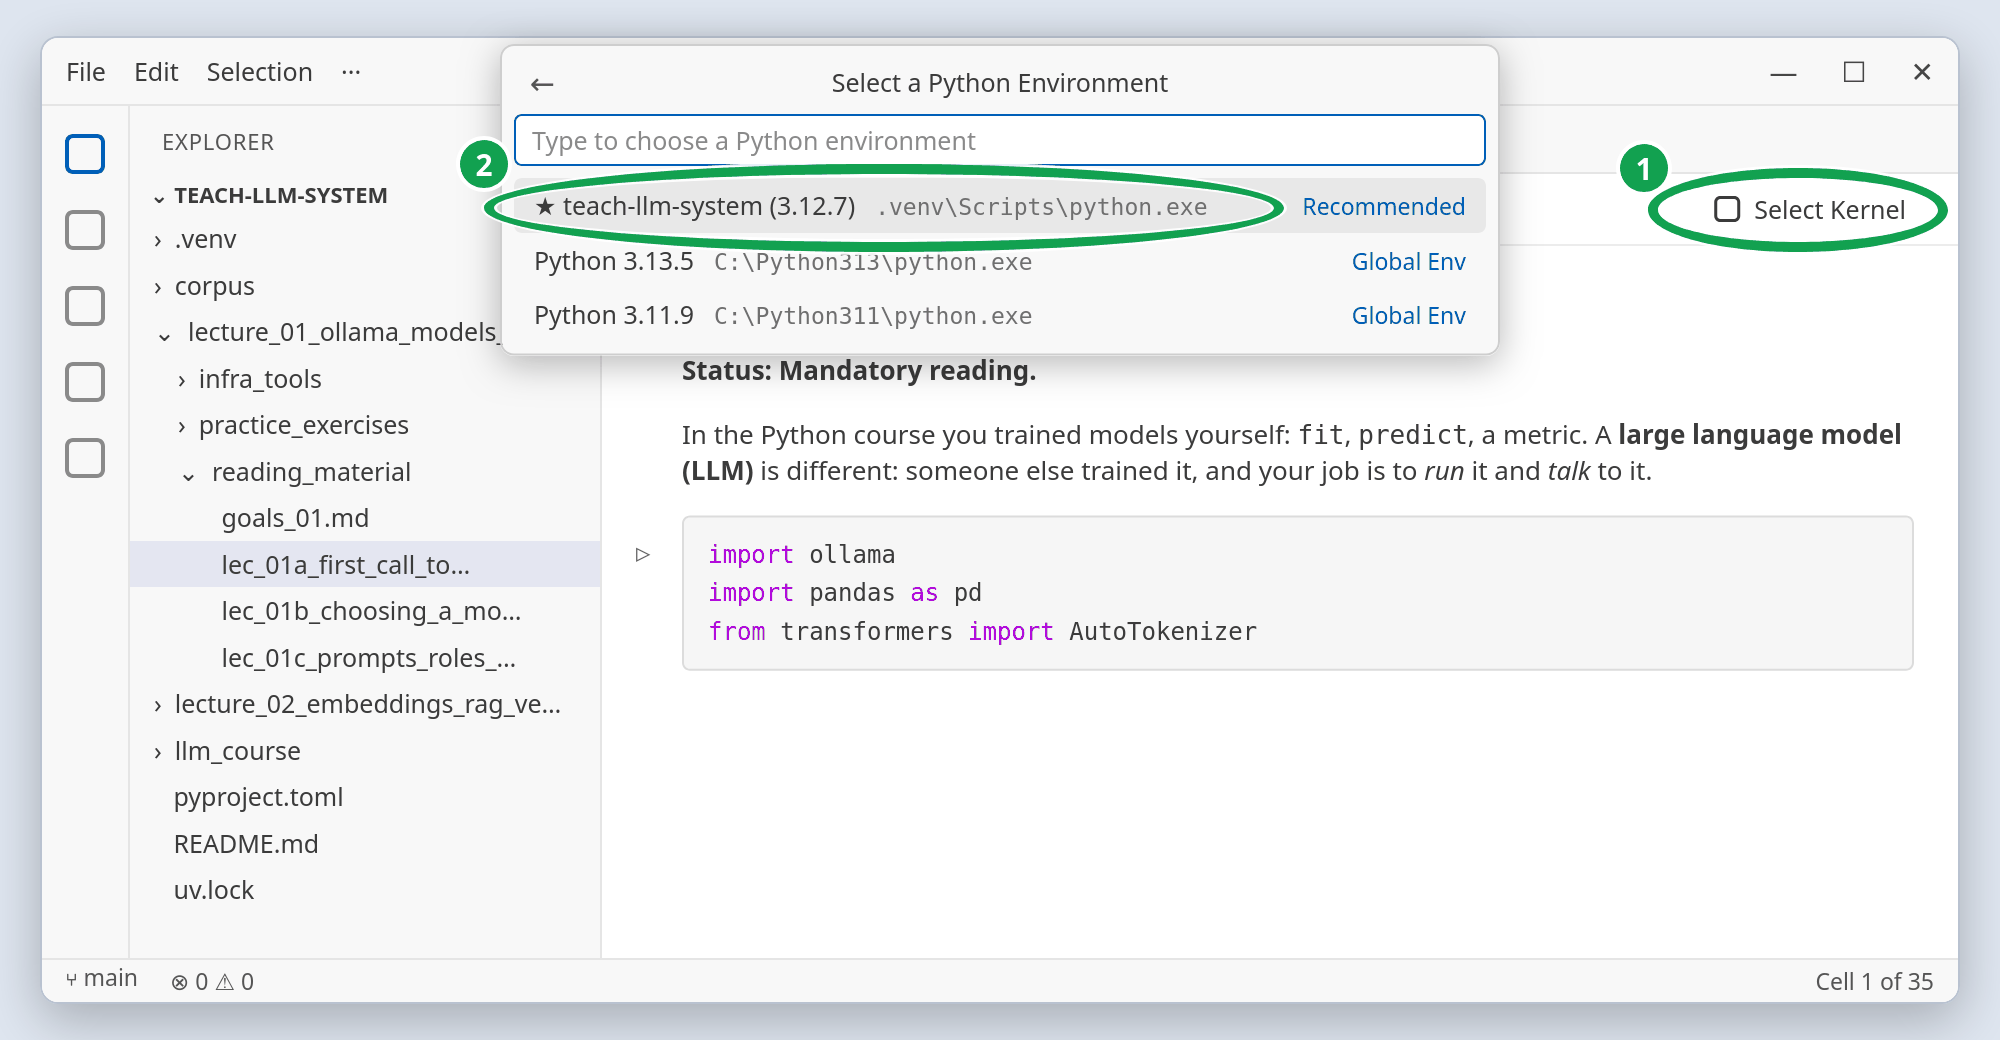
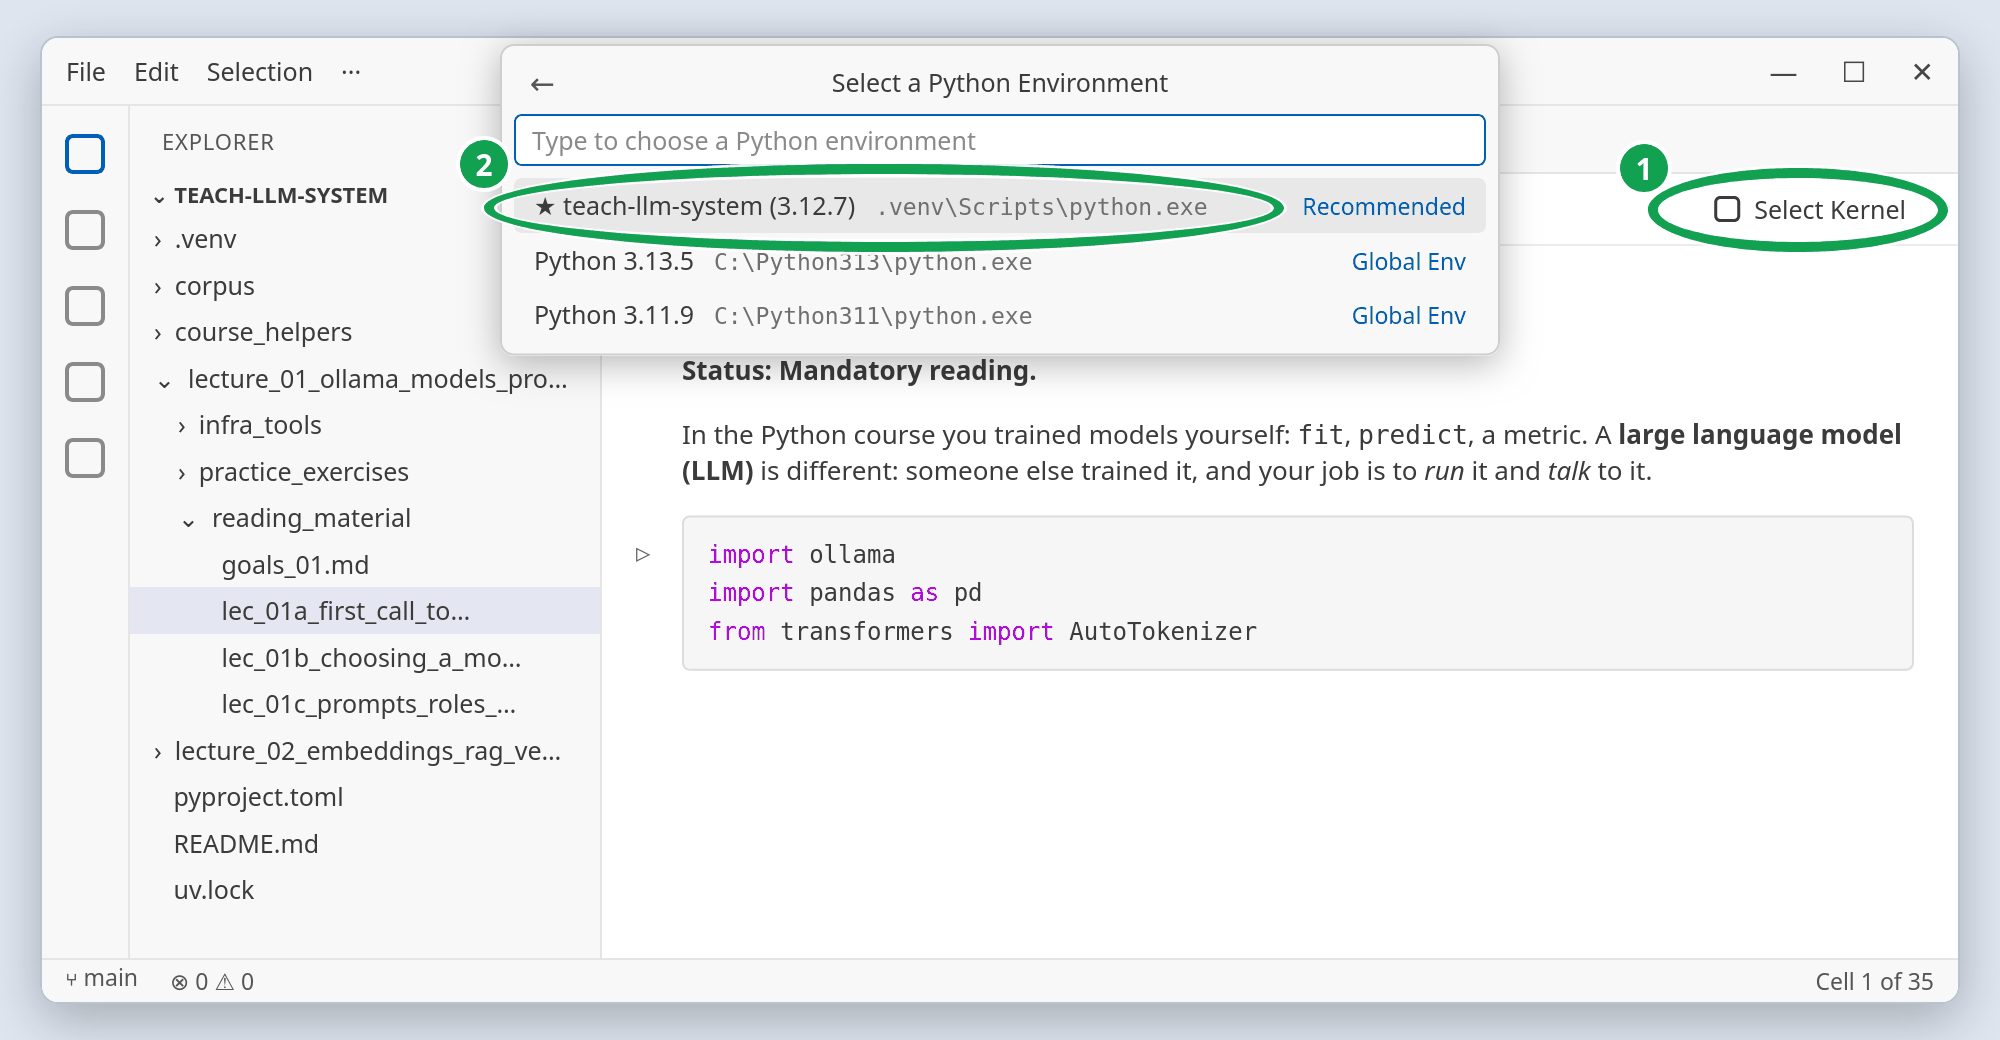
refactor(course_helpers): rename the llm_course package to course_helpers
The helpers are the course's own functions, first written live in a
notebook and then promoted; the new name says so. A generic name such as
utils was rejected: a student's own utils.py next to a notebook would
shadow it, because Python searches the notebook's folder first.

- Rename the package folder and every import, reference and comment in
  notebooks, tools, guides, CLAUDE.md, CI and the pre-commit config
- List the evaluation and agents modules in the package docstring
- Redraw the three VS Code illustrations whose Explorer tree shows the
  folder, in its alphabetical place
- Session transcripts in ai_collaboration_log/sessions keep the old name:
  they record what happened at the time

Changed region(s): [[0.093, 0.5846, 0.279, 0.7385], [0.093, 0.3077, 0.248, 0.4615], [0.093, 0.4923, 0.217, 0.5538]]

diff --git a/tools/mlflow_server.py b/tools/mlflow_server.py
@@ -4,8 +4,8 @@
     cd mlflow_server
     uv run python ../tools/mlflow_server.py --host 127.0.0.1 --port 5010   # same flags as `mlflow server`
 
-This is `mlflow server` with one change: uvicorn loads `llm_course.mlflow_app:app`, which
-registers the Copilot provider (see llm_course/mlflow_copilot_provider.py) before
+This is `mlflow server` with one change: uvicorn loads `course_helpers.mlflow_app:app`, which
+registers the Copilot provider (see course_helpers/mlflow_copilot_provider.py) before
 creating MLflow's FastAPI application. The Assistant panel then lists "GitHub Copilot CLI"
 next to Claude Code, Codex CLI and Ollama, and uses it when it is the selected provider in
 `~/.mlflow/assistant/config.json` (see tools/install_copilot_provider.py).
@@ -18,7 +18,7 @@ import sys
 
 import mlflow.server as mlflow_server
 
-COURSE_APP = "llm_course.mlflow_app:app"
+COURSE_APP = "course_helpers.mlflow_app:app"
 
 _original_build_uvicorn_command = mlflow_server._build_uvicorn_command
 

diff --git a/course_helpers/agents.py b/course_helpers/agents.py
@@ -22,7 +22,7 @@ from langchain_core.tools import BaseTool, tool
 from mlflow.entities import SpanType, Trace
 from mlflow.genai.scorers import scorer
 
-from llm_course.rag import DEFAULT_RAG_PROMPT, format_context
+from course_helpers.rag import DEFAULT_RAG_PROMPT, format_context
 
 # The Python course has lectures 1 to 13 (corpus/uoa_py_course/lecture_01 ... _13).
 FIRST_LECTURE, LAST_LECTURE = 1, 13
@@ -49,7 +49,7 @@ def make_course_tools(
 ) -> list[BaseTool]:
     """Return the course's tools: ``count_mentions``, ``list_notebooks``, ``search_notes``.
 
-    ``documents`` are the notes from ``llm_course.corpus.load_corpus``; ``retriever``
+    ``documents`` are the notes from ``course_helpers.corpus.load_corpus``; ``retriever``
     (for example ``store.as_retriever(...)``, lec_02d) adds ``search_notes``. Every tool
     only reads the notes: no files written, no network, no shell (lec_03c section 7).
     """

diff --git a/tools/export_corpus.py b/tools/export_corpus.py
@@ -6,7 +6,7 @@
     uv run python tools/export_corpus.py --check                        # verify corpus matches manifest
 
 Standard library only, so it also runs before `uv sync`. Notebook cells become
-Markdown (see llm_course.corpus.notebook_to_markdown); .py and .txt files are fenced.
+Markdown (see course_helpers.corpus.notebook_to_markdown); .py and .txt files are fenced.
 """
 
 import argparse
@@ -21,7 +21,7 @@ from pathlib import Path
 
 REPO = Path(__file__).resolve().parents[1]
 sys.path.insert(0, str(REPO))
-from llm_course.corpus import notebook_to_markdown  # noqa: E402
+from course_helpers.corpus import notebook_to_markdown  # noqa: E402
 
 SOURCE_REPO = "https://github.com/argythana/uoa_py_course"
 OUT_DIR = REPO / "corpus" / "uoa_py_course"

diff --git a/tools/guide_illustrations/vscode_kernel.py b/tools/guide_illustrations/vscode_kernel.py
@@ -90,6 +90,7 @@ SIDE = "".join(
     (
         tree(0, "›&nbsp; .venv"),
         tree(0, "›&nbsp; corpus"),
+        tree(0, "›&nbsp; course_helpers"),
         tree(0, "⌄&nbsp; lecture_01_ollama_models_pro…"),
         tree(1, "›&nbsp; infra_tools"),
         tree(1, "›&nbsp; practice_exercises"),
@@ -99,7 +100,6 @@ SIDE = "".join(
         tree(2, "&nbsp;&nbsp; lec_01b_choosing_a_mo…"),
         tree(2, "&nbsp;&nbsp; lec_01c_prompts_roles_…"),
         tree(0, "›&nbsp; lecture_02_embeddings_rag_ve…"),
-        tree(0, "›&nbsp; llm_course"),
         tree(0, "&nbsp;&nbsp; pyproject.toml"),
         tree(0, "&nbsp;&nbsp; README.md"),
         tree(0, "&nbsp;&nbsp; uv.lock"),

diff --git a/course_helpers/__init__.py b/course_helpers/__init__.py
@@ -1,0 +1,11 @@
+"""Helper functions for the teach-llm-system course.
+
+Every function here was first written live in a notebook and then "promoted" into
+this package so later notebooks can rebuild their inputs in one cell:
+
+- ``course_helpers.checks`` : is Ollama up, are the models pulled, is MLflow reachable?
+- ``course_helpers.corpus`` : load the course notes (and optional Wikipedia pages).
+- ``course_helpers.rag``    : split, index (Chroma), and build the RAG chain.
+- ``course_helpers.evaluation`` : evaluation records, scorers, the LLM judge, comparisons.
+- ``course_helpers.agents``     : the course's tools and the agentic RAG graph.
+"""

diff --git a/tools/guide_illustrations/hf_token.py b/tools/guide_illustrations/hf_token.py
@@ -210,9 +210,9 @@ def tree(indent: int, text: str, on: bool = False) -> str:
 VS_SIDE = "".join(
     (
         tree(0, "›&nbsp; .venv"),
+        tree(0, "›&nbsp; course_helpers"),
         tree(0, "›&nbsp; lecture_01_ollama_models_pro…"),
         tree(0, "›&nbsp; lecture_02_embeddings_rag_ve…"),
-        tree(0, "›&nbsp; llm_course"),
         f'<div class="tree on" style="padding:6px 0 6px 36px;margin:12px 0">{circled(".env", "1", "padding-right:60px", "right")}</div>',
         tree(0, "&nbsp;&nbsp;&nbsp; .env.example"),
         tree(0, "&nbsp;&nbsp;&nbsp; .gitignore"),

diff --git a/tools/guide_illustrations/vscode_terminal.py b/tools/guide_illustrations/vscode_terminal.py
@@ -128,10 +128,10 @@ SIDE = f"""<div class="side">
   <div class="root">⌄ TEACH-LLM-SYSTEM</div>
   {tree(0, "›&nbsp; .venv")}
   {tree(0, "›&nbsp; corpus")}
+  {tree(0, "›&nbsp; course_helpers")}
   {tree(0, "›&nbsp; data")}
   {tree(0, "›&nbsp; lecture_01_ollama_models_pro…")}
   {tree(0, "›&nbsp; lecture_02_embeddings_rag_ve…")}
-  {tree(0, "›&nbsp; llm_course")}
   {tree(0, "›&nbsp; mlflow_server")}
   {tree(0, "&nbsp;&nbsp; .env")}
   {tree(0, "&nbsp;&nbsp; pyproject.toml")}

diff --git a/tools/run_all.py b/tools/run_all.py
@@ -88,7 +88,7 @@ def main():
     load_dotenv(REPO / ".env")
     todo = list(notebooks(args.lecture, args.optional))
     if not args.skip_preflight:
-        from llm_course.checks import check_mlflow, check_ollama
+        from course_helpers.checks import check_mlflow, check_ollama
 
         check_ollama(
             os.environ.get("OLLAMA_HOST", "http://localhost:11434"), MODELS[args.tier]

diff --git a/tools/install_copilot_provider.py b/tools/install_copilot_provider.py
@@ -71,7 +71,7 @@ def remove() -> None:
 def verify() -> None:
     import mlflow.assistant.providers as providers
 
-    from llm_course.mlflow_copilot_provider import install
+    from course_helpers.mlflow_copilot_provider import install
 
     install()
     names = [p.name for p in providers.list_providers()]

diff --git a/course_helpers/mlflow_app.py b/course_helpers/mlflow_app.py
@@ -5,7 +5,7 @@
 before the Assistant API enumerates providers. Nothing else differs from `mlflow server`.
 """
 
-from llm_course.mlflow_copilot_provider import install
+from course_helpers.mlflow_copilot_provider import install
 
 install()
 
